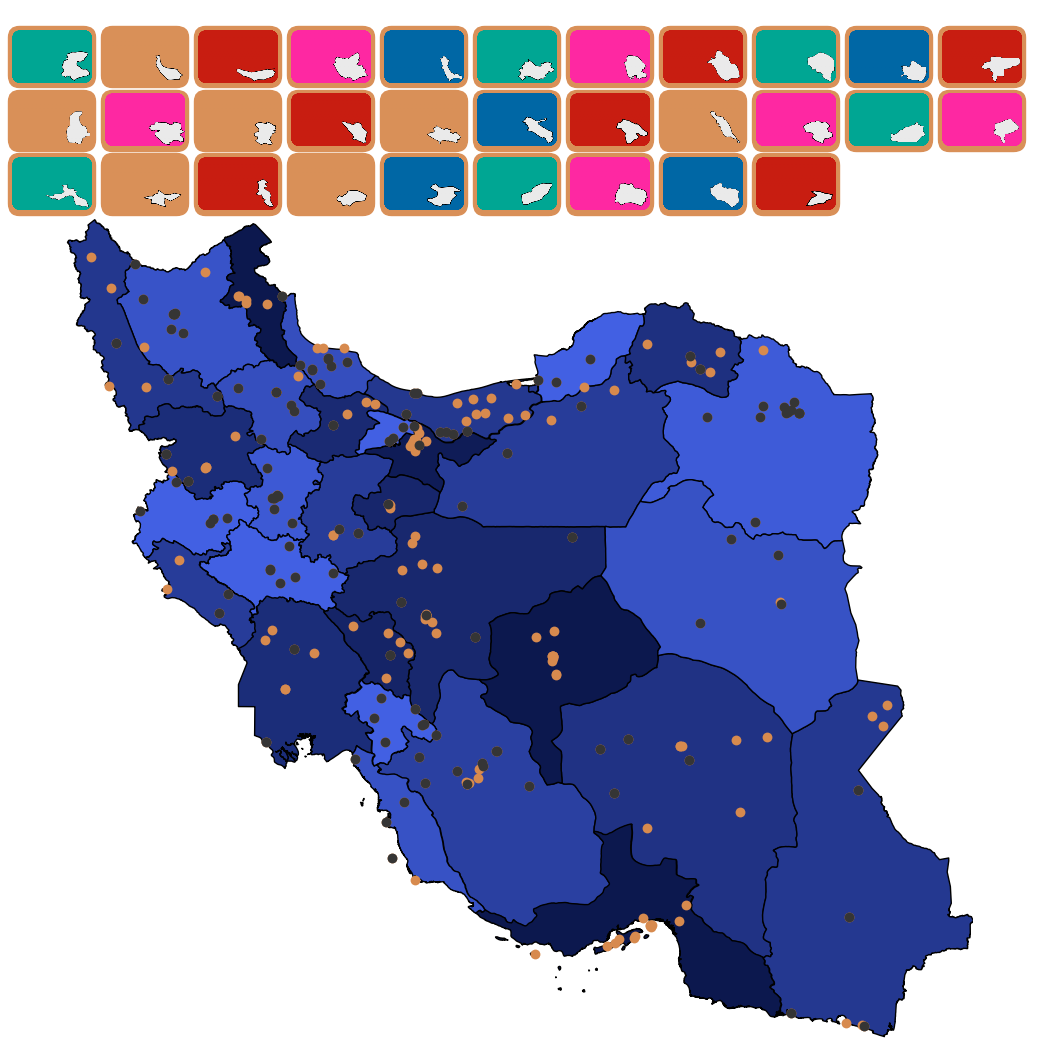
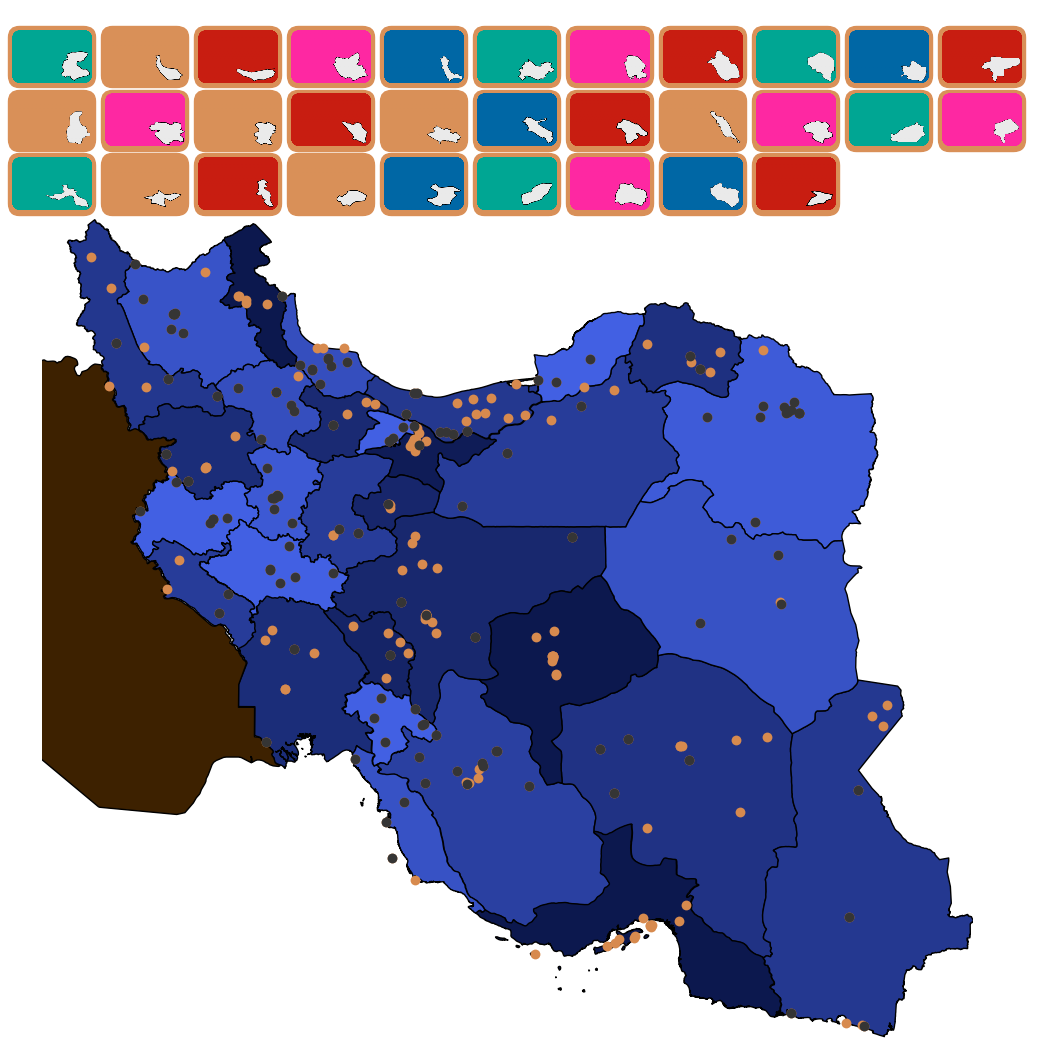
add initial submap

Changed region(s): [[0.0308, 0.3412, 0.2775, 0.7754]]

diff --git a/plotting/plotting_manager.py b/plotting/plotting_manager.py
@@ -20,9 +20,10 @@ from colormap.cmap_maker import CustomCmap
 random.seed(5)
 
 class PlotManager:
-    def __init__(self, points_gdf, submaps, meta_data, path, scale):
+    def __init__(self, points_gdf, submaps, bgmaps, meta_data, path, scale):
         self.points_gdf = points_gdf
         self.submaps = submaps
+        self.bgmaps = bgmaps
         self.meta_data = meta_data
         self.path = path
         self.scale = scale
@@ -41,6 +42,7 @@ class PlotManager:
         self.labels = meta_data["Labels"]
         self.map_dark = meta_data["Colors"]["map_dark"]
         self.map_light = meta_data["Colors"]["map_light"]
+        self.bg_land = meta_data["Colors"]["bg_land"]
 
         self.output_temp_path = "./plots/temp/"
         self.output_final_path = "./plots/"
@@ -68,6 +70,7 @@ class PlotManager:
 
     def _plot_submaps(self, ax, current_date):
         self.ratios = {}
+        # Submap Plotting
         for submap in self.submaps:
             submap_points = self.points_gdf[self.points_gdf['submap'] == submap]
             num_past_dates = (submap_points['date'] <= current_date).sum()
@@ -78,6 +81,17 @@ class PlotManager:
             shapefile_path = os.path.join(self.path, "submaps", f"{submap}.shp")
             submap_gdf = gpd.read_file(shapefile_path)
             submap_gdf.plot(ax=ax, edgecolor="black", linewidth=1, color=color, alpha=1)
+        # Background Plotting
+        for bgmap in self.bgmaps:
+            #bgmap_points = self.points_gdf[self.points_gdf['bgmap'] == bgmap]
+            #num_past_dates = (submap_points['date'] <= current_date).sum()
+            #ratio = num_past_dates / len(submap_points)
+            #self.ratios[submap] = ratio
+            color = self.bg_land
+
+            shapefile_path = os.path.join(self.path, "bg_maps", f"{bgmap}.shp")
+            bgmap_gdf = gpd.read_file(shapefile_path)
+            bgmap_gdf.plot(ax=ax, edgecolor="black", linewidth=1, color=color, alpha=1)
 
     def _plot_points(self, ax, current_date):
         scale_factor = self.marker_size * (self.scale ** 2)

diff --git a/main.py b/main.py
@@ -44,6 +44,7 @@ old_date = None
 plot_manager = PlotManager(
     points_gdf=points_gdf,
     submaps=submaps,
+    bgmaps=bgmaps,
     meta_data=meta_data,
     path=PATH,
     scale=SCALE
